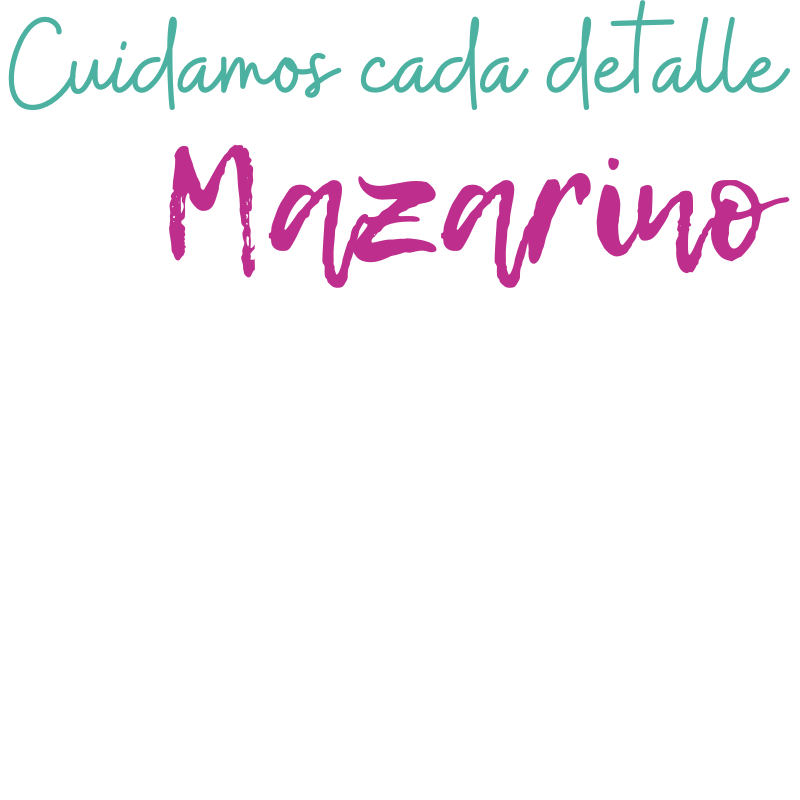
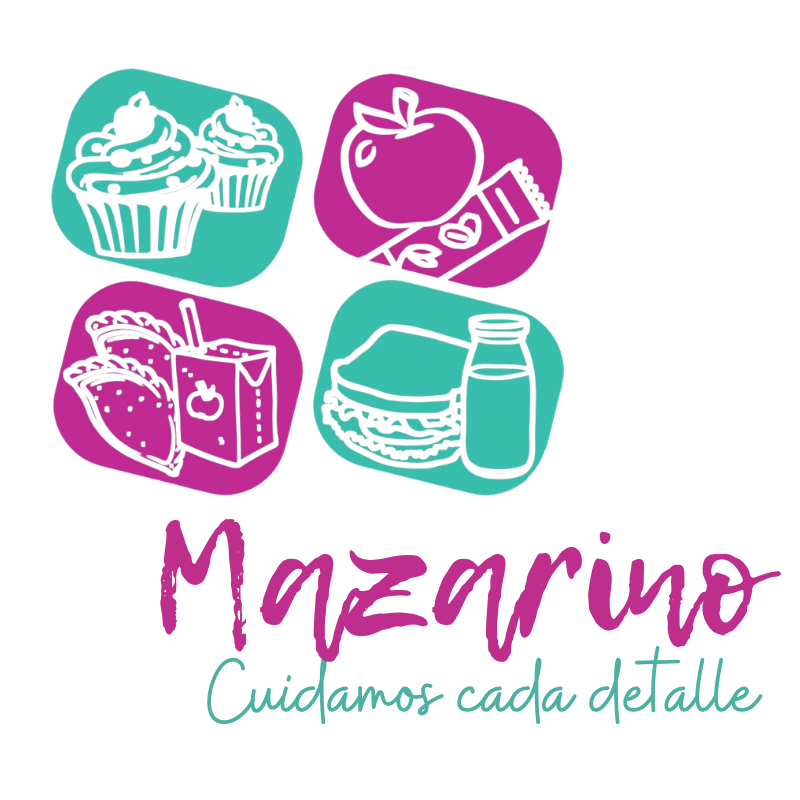
lets do it

Changed region(s): [[0.0312, 0.0312, 0.9688, 0.9062], [0.6875, 0.0, 1.0, 0.125], [0.0, 0.0, 0.0625, 0.125]]

diff --git a/index.html b/index.html
@@ -8,7 +8,7 @@
     <title>Mazarino | Refrigerios & Brunch Empresarial</title>
     <link href="https://cdn.jsdelivr.net/npm/bootstrap@5.3.0/dist/css/bootstrap.min.css" rel="stylesheet"/>
     <link rel="stylesheet" href="https://cdnjs.cloudflare.com/ajax/libs/font-awesome/6.4.0/css/all.min.css"/>
-    <link href="https://fonts.googleapis.com/css2?family=Poppins:wght@300;400;500;600;700&family=Open+Sans:wght@300;400;600&display=swap" rel="stylesheet"/>
+    <link href="https://fonts.googleapis.com/css2?family=Poppins:wght@300;400;500;600;700&family=Open+Sans:wght@300;400;600&family=Dancing+Script:wght@400;700&display=swap" rel="stylesheet"/>
     <link href="css/styles.css" rel="stylesheet"/>
 </head>
 <body>
@@ -18,7 +18,7 @@
     <div class="container">
         <a class="navbar-brand d-flex align-items-center" href="#inicio">
             <img src="MainLogo.png" alt="Mazarino Logo" style="height: 45px; margin-right: 10px;">
-            Mazarino
+            Arte Manual Mazarino
         </a>
         <button class="navbar-toggler" type="button" data-bs-toggle="collapse" data-bs-target="#navbarNav">
             <span class="navbar-toggler-icon"></span>
@@ -26,6 +26,7 @@
         <div class="collapse navbar-collapse" id="navbarNav">
             <ul class="navbar-nav ms-auto">
                 <li class="nav-item"><a class="nav-link active" href="#inicio">Inicio</a></li>
+                <li class="nav-item"><a class="nav-link" href="#fundadoras">Fundadoras</a></li>
                 <li class="nav-item"><a class="nav-link" href="#nosotros">Nosotros</a></li>
                 <li class="nav-item"><a class="nav-link" href="#servicios">Servicios</a></li>
                 <li class="nav-item"><a class="nav-link" href="#menu">Menú</a></li>
@@ -36,23 +37,81 @@
     </div>
 </nav>
 
-<!-- HERO -->
+<!-- HERO con Video -->
 <section id="inicio" class="hero-section">
     <div class="hero-overlay"></div>
     <div class="container">
         <div class="row min-vh-100 align-items-center">
-            <div class="col-lg-8 text-white">
+            <div class="col-lg-7 text-white">
                 <img src="SloganMazarino.png" alt="Cuidamos cada detalle" style="max-width: 350px; margin-bottom: 30px;">
-                <h1 class="display-3 fw-bold mb-4">Refrigerios & Brunch Empresarial</h1>
+                <h1 class="display-3 fw-bold mb-4" style="font-family: 'Dancing Script', cursive;">Refrigerios & Brunch Empresarial</h1>
                 <p class="lead mb-4 fs-4">Soluciones gastronómicas frescas, equilibradas y presentadas con excelencia para reuniones, capacitaciones, eventos corporativos y oficinas en Bogotá.</p>
                 <div class="d-flex gap-3">
                     <a href="#menu" class="btn btn-light btn-lg px-4 py-2">Ver Menú</a>
                     <a href="#contacto" class="btn btn-outline-light btn-lg px-4 py-2">Cotizar Ahora</a>
                 </div>
             </div>
+            <div class="col-lg-5 d-none d-lg-flex justify-content-center align-items-center">
+                <video class="hero-video" autoplay loop muted playsinline>
+                    <source src="MainVideo.mp4" type="video/mp4">
+                </video>
+            </div>
         </div>
     </div>
-    <a href="#nosotros" class="scroll-down"><i class="fas fa-chevron-down"></i></a>
+    <a href="#fundadoras" class="scroll-down"><i class="fas fa-chevron-down"></i></a>
+</section>
+
+<!-- FUNDADORAS -->
+<section id="fundadoras" class="py-5 bg-light">
+    <div class="container py-5">
+        <div class="text-center mb-5">
+            <h6 class="text-primary fw-bold text-uppercase">Nuestras Fundadoras</h6>
+            <h2 style="font-family: 'Dancing Script', cursive;">La Historia Detrás de Mazarino</h2>
+            <p class="text-muted mx-auto" style="max-width: 700px;">
+                Conoce a las mujeres que soñaron con cuidar cada detalle de tus eventos corporativos
+            </p>
+        </div>
+        <div class="row g-4 justify-content-center">
+            <div class="col-lg-5 col-md-6">
+                <div class="founder-card bg-white rounded-3 shadow-sm p-4 text-center h-100">
+                    <img src="" alt="Fundadora 1" class="founder-img rounded-circle mb-3 mx-auto">
+                    <h5 class="mb-1">Nombre Fundadora 1</h5>
+                    <p class="text-primary mb-3">Cofundadora & CEO</p>
+                    <p class="text-muted">
+                        "Siempre creí que una buena reunión empieza con buenos refrigerios.
+                        Mazarino nació de la pasión por la gastronomía y el deseo de ofrecer
+                        algo diferente: productos frescos, presentados con amor y entregados a tiempo."
+                    </p>
+                </div>
+            </div>
+            <div class="col-lg-5 col-md-6">
+                <div class="founder-card bg-white rounded-3 shadow-sm p-4 text-center h-100">
+                    <img src="" alt="Fundadora 2" class="founder-img rounded-circle mb-3 mx-auto">
+                    <h5 class="mb-1">Nombre Fundadora 2</h5>
+                    <p class="text-primary mb-3">Cofundadora & Creativa</p>
+                    <p class="text-muted">
+                        "La idea de Arte Manual Mazarino surgió de ver la necesidad de las
+                        empresas bogotanas: refrigerios que no fueran lo mismo de siempre.
+                        Queremos que cada bocado cuente una historia de calidad y detalle."
+                    </p>
+                </div>
+            </div>
+        </div>
+        <div class="row mt-5">
+            <div class="col-lg-8 mx-auto">
+                <div class="p-4 bg-white rounded-3 shadow-sm">
+                    <h5 class="text-center text-primary mb-3" style="font-family: 'Dancing Script', cursive;"><i class="fas fa-heart me-2"></i>Nuestra Misión</h5>
+                    <p class="text-muted text-center">
+                        Transformar la experiencia de los eventos corporativos a través de la gastronomía artesanal.
+                        En Mazarino no solo preparamos refrigerios: creamos momentos que unen equipos,
+                        inspiran conversaciones y hacen que cada reunión sea especial.
+                        Cuidamos cada ingrediente, cada presentación y cada entrega, porque sabemos que
+                        los detalles hacen la diferencia.
+                    </p>
+                </div>
+            </div>
+        </div>
+    </div>
 </section>
 
 <!-- NOSOTROS -->
@@ -64,7 +123,7 @@
             </div>
             <div class="col-lg-6">
                 <h6 class="text-primary fw-bold text-uppercase">Sobre Nosotros</h6>
-                <h2 class="mb-4">Cuidamos Cada Detalle de tu Evento</h2>
+                <h2>Cuidamos Cada Detalle de tu Evento</h2>
                 <p class="text-muted mb-4">En Mazarino creemos que una buena reunión se construye desde los detalles más pequeños. Nos especializamos en la preparación y entrega de refrigerios y brunch de alta calidad para empresas, cuidando cada ingrediente, la presentación y la puntualidad.</p>
                 <p class="text-muted mb-4">Ofrecemos opciones variadas, saludables y deliciosas que se adapten a las necesidades de tu equipo: desde refrigerios estándar hasta desayunos completos y brunch ejecutivos. Todo preparado con ingredientes frescos, empaques individuales o grupales, y entregas en Bogotá y zona periférica los 365 días del año.</p>
                 <div class="row mt-4">
@@ -171,7 +230,6 @@
             <button class="btn btn-outline-primary m-1" data-filter="desayuno">Desayunos</button>
         </div>
         <div class="row g-4">
-            <!-- Refrigerio Estándar -->
             <div class="col-lg-4 col-md-6 portfolio-item" data-category="refrigerio">
                 <div class="product-card bg-white rounded-3 shadow-sm h-100">
                     <div class="overflow-hidden"><img src="Fotos Editadas Mazarino/2.png" alt="Refrigerio Estándar" class="img-fluid w-100"></div>
@@ -183,7 +241,6 @@
                     </div>
                 </div>
             </div>
-            <!-- Menú Básico -->
             <div class="col-lg-4 col-md-6 portfolio-item" data-category="menu-basico">
                 <div class="product-card bg-white rounded-3 shadow-sm h-100">
                     <div class="overflow-hidden"><img src="Fotos Editadas Mazarino/3.png" alt="Menú Básico" class="img-fluid w-100"></div>
@@ -195,7 +252,6 @@
                     </div>
                 </div>
             </div>
-            <!-- Brunch -->
             <div class="col-lg-4 col-md-6 portfolio-item" data-category="brunch">
                 <div class="product-card bg-white rounded-3 shadow-sm h-100">
                     <div class="overflow-hidden"><img src="Fotos Editadas Mazarino/4.png" alt="Brunch" class="img-fluid w-100"></div>
@@ -207,7 +263,6 @@
                     </div>
                 </div>
             </div>
-            <!-- Desayuno Delicioso -->
             <div class="col-lg-4 col-md-6 portfolio-item" data-category="desayuno">
                 <div class="product-card bg-white rounded-3 shadow-sm h-100">
                     <div class="overflow-hidden"><img src="Fotos Editadas Mazarino/5.png" alt="Desayuno Delicioso" class="img-fluid w-100"></div>
@@ -219,7 +274,6 @@
                     </div>
                 </div>
             </div>
-            <!-- Más productos -->
             <div class="col-lg-4 col-md-6 portfolio-item" data-category="refrigerio">
                 <div class="product-card bg-white rounded-3 shadow-sm h-100">
                     <div class="overflow-hidden"><img src="Fotos Editadas Mazarino/6.png" alt="Sanduche Mexicano" class="img-fluid w-100"></div>
@@ -355,9 +409,13 @@
                         <div class="me-3"><i class="fas fa-envelope fa-2x text-primary"></i></div>
                         <div><h6>Correo Electrónico</h6><p class="text-muted">[email redacted]</p></div>
                     </div>
+                    <div class="d-flex mb-4">
+                        <div class="me-3"><i class="fab fa-instagram fa-2x text-primary"></i></div>
+                        <div><h6>Instagram</h6><p class="text-muted"><a href="https://www.instagram.com/artemanualmazarino" target="_blank">@artemanualmazarino</a></p></div>
+                    </div>
                     <div class="d-flex">
-                        <div class="me-3"><i class="fas fa-map-marker-alt fa-2x text-primary"></i></div>
-                        <div><h6>Cobertura</h6><p class="text-muted">Bogotá D.C. y zona periférica</p></div>
+                        <div class="me-3"><i class="fab fa-facebook fa-2x text-primary"></i></div>
+                        <div><h6>Facebook</h6><p class="text-muted"><a href="https://www.facebook.com/share/1cGVwYka3q/" target="_blank">Arte Manual Mazarino</a></p></div>
                     </div>
                 </div>
             </div>
@@ -405,16 +463,17 @@
                 <h5 class="mb-3"><img src="MainLogo.png" alt="Mazarino" style="height:40px; margin-right:10px;">Arte Manual Mazarino</h5>
                 <p class="text-white-50">Especialistas en refrigerios, brunch y desayunos empresariales en Bogotá. Cuidamos cada detalle para que tu evento sea un éxito.</p>
                 <div class="social-links mt-3">
-                    <a href="#" class="text-white me-3"><i class="fab fa-facebook fa-lg"></i></a>
-                    <a href="#" class="text-white me-3"><i class="fab fa-instagram fa-lg"></i></a>
-                    <a href="https://wa.me/[phone redacted]" class="text-white me-3"><i class="fab fa-whatsapp fa-lg"></i></a>
-                    <a href="mailto:[email redacted]" class="text-white"><i class="fas fa-envelope fa-lg"></i></a>
+                    <a href="https://www.facebook.com/share/1cGVwYka3q/" target="_blank" class="text-white me-3" title="Facebook"><i class="fab fa-facebook fa-lg"></i></a>
+                    <a href="https://www.instagram.com/artemanualmazarino?igsh=MWc4c3l6cDFoZHZyNg==" target="_blank" class="text-white me-3" title="Instagram"><i class="fab fa-instagram fa-lg"></i></a>
+                    <a href="https://wa.me/[phone redacted]" target="_blank" class="text-white me-3" title="WhatsApp"><i class="fab fa-whatsapp fa-lg"></i></a>
+                    <a href="mailto:[email redacted]" class="text-white" title="Email"><i class="fas fa-envelope fa-lg"></i></a>
                 </div>
             </div>
             <div class="col-lg-2 col-md-6">
                 <h5 class="mb-3">Enlaces</h5>
                 <ul class="list-unstyled">
                     <li class="mb-2"><a href="#inicio" class="text-white-50 text-decoration-none">Inicio</a></li>
+                    <li class="mb-2"><a href="#fundadoras" class="text-white-50 text-decoration-none">Fundadoras</a></li>
                     <li class="mb-2"><a href="#nosotros" class="text-white-50 text-decoration-none">Nosotros</a></li>
                     <li class="mb-2"><a href="#servicios" class="text-white-50 text-decoration-none">Servicios</a></li>
                     <li class="mb-2"><a href="#menu" class="text-white-50 text-decoration-none">Menú</a></li>
@@ -462,7 +521,6 @@
 <!-- Botón Volver Arriba -->
 <a href="#inicio" class="back-to-top"><i class="fas fa-arrow-up"></i></a>
 
-<!-- Bootstrap 5 JS -->
 <script src="https://cdn.jsdelivr.net/npm/bootstrap@5.3.0/dist/js/bootstrap.bundle.min.js"></script>
 <script src="js/script.js"></script>
 </body>

diff --git a/css/styles.css b/css/styles.css
@@ -188,7 +188,7 @@ img {
     width: 100%;
     height: 100%;
     /* PERSONALIZAR: Oscurecer el fondo (0.6 = 60% oscuro) */
-    background: linear-gradient(135deg, rgba(135, 10, 48, 0.8), rgba(212, 55, 144, 0.7));
+    background: linear-gradient(135deg, rgba(207, 188, 194, 0.8), rgba(150, 9, 89, 0.7));
     z-index: 1;
 }
 
@@ -528,6 +528,42 @@ footer .social-links a:hover {
     background: var(--primary-dark);
     color: #fff;
     transform: translateY(-5px);
+}
+
+/* =====================================================
+   HERO VIDEO (Vertical/Cellphone format)
+   ===================================================== */
+.hero-video {
+    width: 280px;
+    height: 500px;
+    object-fit: cover;
+    border-radius: 20px;
+    box-shadow: 0 10px 40px rgba(0, 0, 0, 0.4);
+    border: 4px solid rgba(255, 255, 255, 0.2);
+}
+
+/* =====================================================
+   FOUNDER CARDS
+   ===================================================== */
+.founder-card {
+    transition: all 0.3s ease;
+}
+
+.founder-card:hover {
+    transform: translateY(-5px);
+    box-shadow: var(--shadow-lg);
+}
+
+.founder-img {
+    width: 120px;
+    height: 120px;
+    object-fit: cover;
+    border: 4px solid var(--primary-light);
+    transition: all 0.3s ease;
+}
+
+.founder-card:hover .founder-img {
+    border-color: var(--primary-color);
 }
 
 /* =====================================================